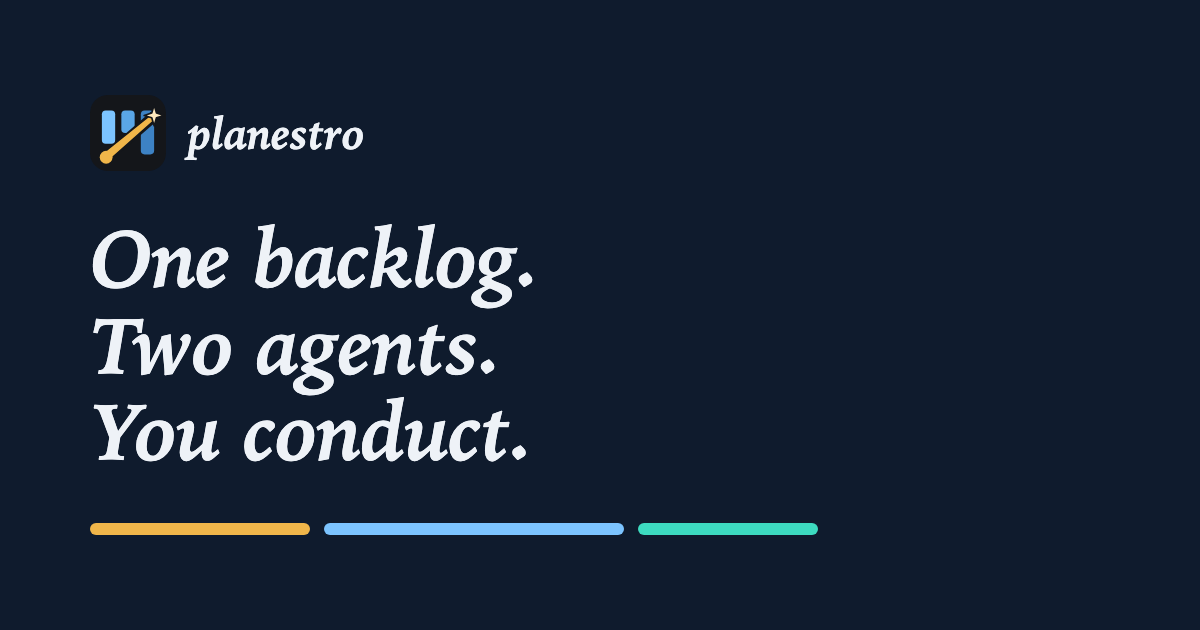
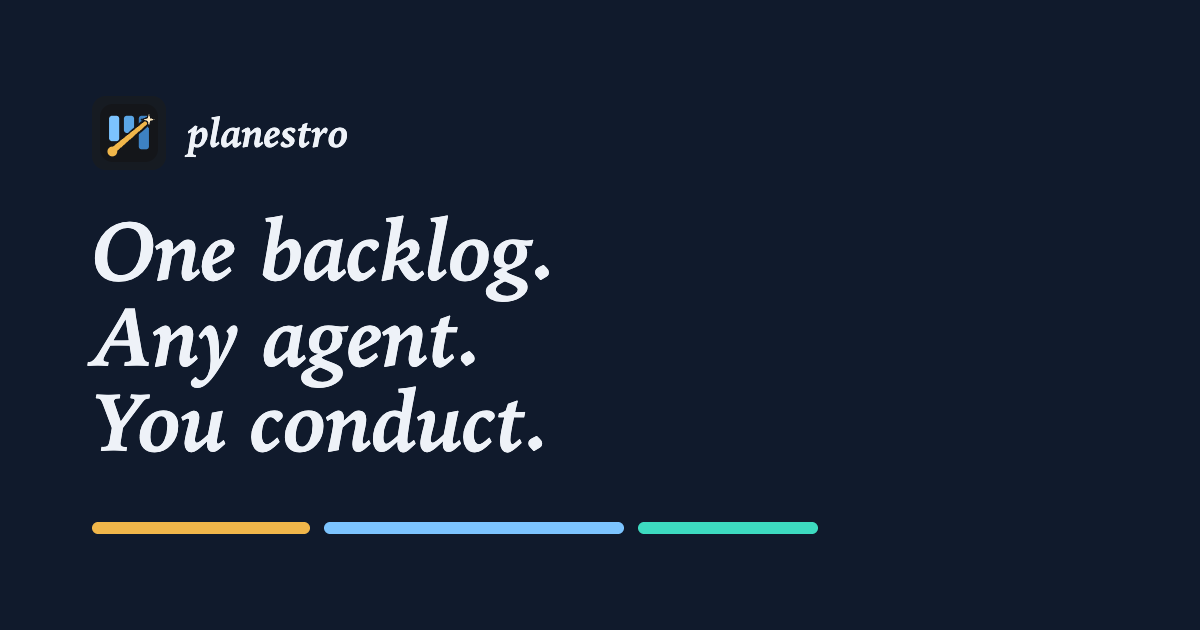
Site: one backlog, any agent — the score plays one ordinary item
The site follows the README: "One backlog. Any agent. You conduct." for a web
app, an API, anything with CI. The hero score now plays one ordinary item
instead of the art epic: you write it, Claude plans, you approve, Codex
implements, CI comes back red and goes to Codex in the same conversation, CI
goes green, it merges. You play two notes. A Releases section is new, the
two-agent section is "One feature, split across agents" with the game as its
proof, and the trust rules say what Codex's no-network sandbox means.

New captures from the current UI (built at /tmp/demo so no home directory
shows): the item waiting on plan approval, which also replaces the stale
README lead image, and a release page. The share card is re-rendered with the
new headline.

Changed region(s): [[0.0617, 0.4825, 0.4625, 0.754], [0.0617, 0.3317, 0.4625, 0.5127], [0.0617, 0.1508, 0.3083, 0.2714]]

diff --git a/site/index.html b/site/index.html
@@ -3,10 +3,10 @@
 <head>
   <meta charset="utf-8">
   <meta name="viewport" content="width=device-width, initial-scale=1">
-  <title>planestro — one backlog, two agents, you conduct</title>
-  <meta name="description" content="A local tool that turns a markdown backlog into reviewed pull requests. Claude Code plans and writes the code, the Codex CLI draws the art, deterministic code does the git, CI and merging — and it stops whenever a decision is yours.">
+  <title>planestro — one backlog, any agent, you conduct</title>
+  <meta name="description" content="A local tool that turns a markdown backlog into merged pull requests, for a web app, an API or anything with CI. Claude Code plans each item, Claude Code or the Codex CLI implements it, deterministic code does the git, CI and merging — and it stops whenever a decision is yours.">
   <meta property="og:title" content="planestro">
-  <meta property="og:description" content="One backlog, two agents, you conduct. Claude Code writes the code, Codex draws the art, and nothing merges without passing CI and, where it matters, your eye.">
+  <meta property="og:description" content="One backlog, any agent, you conduct. Claude Code plans, Claude Code or Codex implements, and nothing merges without a plan you approved and green CI.">
   <meta property="og:image" content="og.png">
   <meta name="theme-color" content="#0f1b2d">
   <link rel="icon" type="image/svg+xml" href="favicon.svg">
@@ -16,7 +16,7 @@
 <header class="top">
   <a class="brand" href="#top"><img src="favicon.svg" alt="" width="28" height="28">planestro</a>
   <nav aria-label="Site">
-    <a href="#two-agents">Two agents</a>
+    <a href="#releases">Releases</a>
     <a href="#trust">Why trust it</a>
     <a href="#start">Try it</a>
     <a href="https://github.com/gravesisme/planestro/blob/main/docs/README.md">Manual</a>
@@ -26,14 +26,14 @@
 
 <main id="top">
   <section class="hero">
-    <h1><span>One backlog.</span> <span>Two agents.</span> <span>You conduct.</span></h1>
-    <p class="lede">planestro is a local tool that turns a markdown backlog into reviewed pull requests. Claude Code plans and writes the code, the Codex CLI draws the art, and plain deterministic code does the git, the CI waits and the merging. Whenever a decision is yours, it stops and asks — and picks the same conversation back up when you answer.</p>
+    <h1><span>One backlog.</span> <span>Any agent.</span> <span>You conduct.</span></h1>
+    <p class="lede">planestro is a local tool that turns a markdown backlog into merged pull requests — for a web app, an API, anything that lives in a git repository with CI. Claude Code plans each item, Claude Code or the Codex CLI implements it, and plain deterministic code does the git, the CI waits, the rebases and the merging. Whenever a decision is yours, it stops and asks — and picks the same conversation back up when you answer.</p>
 
     <figure class="score" aria-labelledby="score-caption">
-      <!-- One feature that needs pictures and code, as a score: who plays in which bar, and where it waits for you. -->
-      <svg viewBox="0 0 1200 430" role="img" aria-label="A score with four staves: you, Claude, Codex, and git and CI. You write the epic; Claude proposes the children; you approve; Codex draws two pieces of art in parallel while git and CI open and check their pull requests; you review the art; Claude builds the code that uses it; the epic merges.">
+      <!-- One ordinary item as a score: who plays in which bar, and the only two bars that are yours. -->
+      <svg viewBox="0 0 1200 430" role="img" aria-label="A score with four staves: you, Claude, Codex, and git and CI. You write an item; git makes its worktree and branch; Claude explores and writes the plan; you approve it; Codex does the work; git and CI push, open the pull request and run CI, which comes back red; Codex fixes it in the same conversation; CI goes green and the item merges.">
         <g class="bars">
-          <text x="170" y="26">write the epic</text><text x="318" y="26">plan the breakdown</text><text x="466" y="26">approve</text><text x="614" y="26">draw</text><text x="762" y="26">review by eye</text><text x="910" y="26">build</text><text x="1058" y="26">land</text>
+          <text x="170" y="26">write an item</text><text x="318" y="26">plan</text><text x="466" y="26">approve</text><text x="614" y="26">implement</text><text x="762" y="26">pull request</text><text x="910" y="26">red CI</text><text x="1058" y="26">land</text>
           <path d="M160 40V400M308 40V400M456 40V400M604 40V400M752 40V400M900 40V400M1048 40V400M1190 40V400"/>
         </g>
         <g class="staves">
@@ -43,39 +43,40 @@
           <g transform="translate(0,322)"><path d="M160 0H1190M160 14H1190M160 28H1190M160 42H1190M160 56H1190"/><text x="146" y="35" class="voice machine-t">git and CI</text></g>
         </g>
         <g class="notes">
-          <g class="note you" style="--at:0"><rect x="166" y="68" width="136" height="36" rx="8"/><text x="234" y="91">one epic, in markdown</text></g>
-          <g class="note claude" style="--at:1"><rect x="314" y="156" width="136" height="36" rx="8"/><text x="382" y="179">proposes the children</text></g>
-          <g class="note machine" style="--at:1.4"><rect x="378" y="339" width="66" height="22" rx="6"/><text x="411" y="354">checks it</text></g>
-          <g class="note you" style="--at:2"><rect x="462" y="68" width="136" height="36" rx="8"/><text x="530" y="91">edit and approve</text></g>
-          <g class="note codex" style="--at:3"><rect x="610" y="238" width="136" height="22" rx="6"/><text x="678" y="253">icon.png</text></g>
-          <g class="note codex" style="--at:3.15"><rect x="610" y="266" width="136" height="22" rx="6"/><text x="678" y="281">header.png</text></g>
-          <g class="note machine" style="--at:3.6"><rect x="690" y="339" width="110" height="22" rx="6"/><text x="745" y="354">PR, sync, CI</text></g>
-          <g class="note you" style="--at:4"><rect x="758" y="68" width="136" height="36" rx="8"/><text x="826" y="91">send back, approve</text></g>
-          <g class="note codex" style="--at:4.3"><rect x="808" y="252" width="80" height="22" rx="6"/><text x="848" y="267">revises</text></g>
-          <g class="note claude" style="--at:5"><rect x="906" y="156" width="136" height="36" rx="8"/><text x="974" y="179">code that uses the art</text></g>
-          <g class="note machine" style="--at:5.6"><rect x="986" y="339" width="110" height="22" rx="6"/><text x="1041" y="354">PR, sync, CI</text></g>
-          <g class="note machine" style="--at:6.2"><rect x="1104" y="332" width="78" height="36" rx="8"/><text x="1143" y="355">one merge</text></g>
+          <g class="note you" style="--at:0"><rect x="166" y="68" width="136" height="36" rx="8"/><text x="234" y="91">a markdown file</text></g>
+          <g class="note machine" style="--at:0.5"><rect x="174" y="339" width="120" height="22" rx="6"/><text x="234" y="354">worktree, branch</text></g>
+          <g class="note claude" style="--at:1"><rect x="314" y="156" width="136" height="36" rx="8"/><text x="382" y="179">explores, plans</text></g>
+          <g class="note you" style="--at:2"><rect x="462" y="68" width="136" height="36" rx="8"/><text x="530" y="91">read and approve</text></g>
+          <g class="note codex" style="--at:3"><rect x="610" y="244" width="136" height="36" rx="8"/><text x="678" y="267">does the work</text></g>
+          <g class="note machine" style="--at:4"><rect x="766" y="339" width="120" height="22" rx="6"/><text x="826" y="354">push, PR, sync, CI</text></g>
+          <g class="note machine" style="--at:4.6"><rect x="906" y="339" width="60" height="22" rx="6"/><text x="936" y="354">red</text></g>
+          <g class="note codex" style="--at:5"><rect x="906" y="244" width="136" height="36" rx="8"/><text x="974" y="267">fixes it</text></g>
+          <g class="note machine" style="--at:5.6"><rect x="976" y="339" width="112" height="22" rx="6"/><text x="1032" y="354">sync, CI green</text></g>
+          <g class="note machine" style="--at:6.2"><rect x="1100" y="332" width="84" height="36" rx="8"/><text x="1142" y="355">merged</text></g>
         </g>
         <path class="playhead" d="M0 40V400"/>
       </svg>
-      <figcaption id="score-caption">One feature that needs pictures and code. The code does not start until the art has merged; nothing merges until CI is green; art does not merge until you have looked at it.</figcaption>
+      <figcaption id="score-caption">One item, markdown to merged. Claude plans it; this one is implemented by Codex, but either can be, chosen per item. You play two notes. The red CI run goes back to the agent that wrote the code, in the same conversation, and nothing merges until CI is green.</figcaption>
     </figure>
   </section>
 
   <section class="band" id="what">
     <div class="prose">
       <h2>Your backlog is a folder of markdown</h2>
-      <p>One file per item: a description, notes, the plan, and a log of everything that happened to it. Queue an item and planestro makes a worktree and a branch, has Claude explore and write a plan, and waits for you to approve it. Then the work is done in that worktree, pushed, opened as a pull request, kept in sync with its base, checked by CI, merged, and cleaned up.</p>
+      <p>One file per item: a description, notes, the plan, and a log of everything that happened to it. Queue an item and planestro makes a worktree and a branch, has Claude explore and write a plan, and waits for you to approve it. Then Claude or Codex does the work in that worktree, and it is pushed, opened as a pull request, kept in sync with its base, checked by CI, merged, and cleaned up.</p>
+      <p>Queue several and they run side by side, each in its own worktree. A merge queue brings each branch up to date with the base and waits for green CI, so they land one after another on a base that stays green.</p>
       <p>The agent never pushes, merges or deletes anything. Code does that, and only with proof: a worktree is removed after a fresh fetch shows its commits on the base branch, and not before.</p>
     </div>
-    <img class="shot" src="img/board.png" width="1760" height="780" loading="lazy" alt="The planestro board. Two art items are in review with thumbnails of what was drawn; two code items are queued, each marked as waiting on the art; their epic shows zero of four children merged.">
+    <img class="shot" src="img/item.png" width="3000" height="1520" loading="lazy" alt="A bug fix waiting on plan approval: its description and notes, with Approve and implement, and a box to say what should change.">
   </section>
 
-  <section class="band" id="two-agents">
+  <section class="band" id="split">
     <div class="prose">
-      <h2>Two agents, one feature</h2>
-      <p>Some features need pictures and code. Write one epic. The planner proposes the child items, sends the raster art to a Codex model and the code to a Claude model, and makes the code wait for the art. A program checks the list before you see it, so an unknown model or a dependency loop goes back to the planner, not to you. Then you edit it and approve.</p>
+      <h2>One feature, split across agents</h2>
+      <p>Each model you configure carries a line saying what it is for. Write one epic, and the planner proposes the child items, routes each to the model that fits, and says which waits on which. A program checks the list before you see it, so an unknown model or a dependency loop goes back to the planner, not to you. Then you edit it and approve, and the children ship together as one pull request.</p>
+      <p>It was built for pictures and code: a game on the App Store, <a href="https://hurricaneharrison.com">Hurricane Harrison</a>, is made with it every day. The raster art goes to a Codex model that can generate images, and the code that uses the art goes to Claude and waits for it.</p>
     </div>
+    <img class="shot" src="img/board.png" width="1760" height="780" loading="lazy" alt="The planestro board. Two art items are in review with thumbnails of what was drawn; two code items are queued, each marked as waiting on the art; their epic shows zero of four children merged.">
     <img class="shot" src="img/breakdown.png" width="1500" height="1010" loading="lazy" alt="A proposed breakdown: an icon and an illustration routed to Codex Art with nothing to wait on, an implementation and a docs item routed to a Claude model that wait on the art.">
     <div class="pair">
       <div class="prose">
@@ -92,6 +93,14 @@
     </figure>
   </section>
 
+  <section class="band" id="releases">
+    <div class="prose">
+      <h2>Releases, next to the backlog</h2>
+      <p>What shipped lives beside what was planned: one file per version with its release notes, its store copy and the items that went out in it. Sections are yours to define, each with a store's character limit if it has one, and the copy that rarely changes carries forward to the next release. The page offers the work that landed since the last release; you decide what goes in.</p>
+    </div>
+    <img class="shot" src="img/releases.png" width="2800" height="2058" loading="lazy" alt="A planned release, 0.4.0: two backlog items in it, two more that landed since the last release offered with an add button, and sections for release notes, a tagline counted against a 60-character limit, and notes.">
+  </section>
+
   <section class="band" id="trust">
     <div class="prose">
       <h2>Why you can leave it running</h2>
@@ -102,7 +111,7 @@
       <div><dt>A state machine, not a model, knows the state</dt><dd>Git, worktrees, pull requests, CI polling, merging and cleanup are code. The models plan, implement and make judgment calls. They never poll.</dd></div>
       <div><dt>Nothing waits on you</dt><dd>A plan to approve, a question, a permission, a picture to look at: the request is saved, the agent's process exits, and your answer resumes the same conversation, after an hour or after a restart.</dd></div>
       <div><dt>Deleting needs evidence</dt><dd>No worktree or branch is removed because state says it should be safe. It takes a fresh fetch and a proof that the commits are on the base. Anything ambiguous blocks with a reason.</dd></div>
-      <div><dt>Two agents, two kinds of trust, stated plainly</dt><dd>A Claude worker asks before anything unusual, one command at a time. A Codex worker cannot ask, so it runs in a sandbox that cannot write outside its worktree or reach the network. Neither can push.</dd></div>
+      <div><dt>Two agents, two kinds of trust, stated plainly</dt><dd>A Claude worker asks before anything unusual, one command at a time. A Codex worker cannot ask, so it runs in a sandbox that cannot write outside its worktree or reach the network; a task that needs a download stops and says so. Neither can push.</dd></div>
       <div><dt>Dry-run, and one big lever</dt><dd>Dry-run logs every command a live engine would run, against fakes. Pause automation lets running work finish and starts nothing new, across restarts.</dd></div>
     </dl>
   </section>
@@ -119,7 +128,8 @@ npm run sample</code></pre>
     <ol class="steps">
       <li>Drag a card to Queued. A plan appears and the card turns red: it needs you.</li>
       <li>Open it, read the plan, approve. Watch it reach Done. The Console shows every command a live engine would have run.</li>
-      <li>Open the Tide chart view epic and choose Plan the breakdown. Approve the children, approve the art, and watch the code start only then.</li>
+      <li>Open Releases: 0.4.0 is being put together, with two finished items still to place.</li>
+      <li>For one feature split across two agents, open the Tide chart view epic and choose Plan the breakdown. Approve the children, approve the art, and watch the code start only then.</li>
     </ol>
     <p class="links"><a href="https://github.com/gravesisme/planestro/blob/main/docs/getting-started.md">Getting started</a><a href="https://github.com/gravesisme/planestro/blob/main/docs/mixed-agent-epics.md">The mixed-agent walkthrough</a><a href="https://github.com/gravesisme/planestro/blob/main/docs/architecture.md">Architecture</a><a href="https://github.com/gravesisme/planestro">Source on GitHub</a></p>
   </section>

diff --git a/docs/going-public.md b/docs/going-public.md
@@ -129,14 +129,17 @@ Making the repo public publishes every commit, not just `main`'s tip.
 
 ## Portfolio / interview material
 
-- [ ] **Retake the screenshots.** `docs/img/item.png`, now the README's lead image,
-      predates the Releases tab and the id-before-title header, and shows the
-      stub dry-run plan. Retake it (and `board.png`) after the canned,
-      item-aware dry-run plans exist.
+- [x] `item.png` (README lead image and site) retaken on 2026-09-22 from the current
+      UI, cropped above the stub dry-run plan; `site/img/releases.png` added.
+- [ ] `board.png`, `breakdown.png` and `review.png` predate the Releases tab and
+      the id-before-title header. Retake them after the canned, item-aware
+      dry-run plans exist.
 - [x] **README leads with the pipeline, not the art** (2026-09-22): the audience
       is web and API developers. Codex is a peer implementer; art-plus-code
       features are one section, with Hurricane Harrison as the proof. The site
-      (`site/index.html`) still leads with the art story.
+      followed: "One backlog. Any agent. You conduct.", the score shows one
+      ordinary item (Claude plans, Codex implements and fixes a red CI run),
+      a Releases section, and a new share card.
 
 - [ ] A two-minute screen recording of the sample: queue → plan → approve →
       PR → CI red → fixed → merged → done (`PLANESTRO_DRYRUN_CI=red-once`

diff --git a/site/README.md b/site/README.md
@@ -4,10 +4,13 @@ A static page: `index.html`, `styles.css`, images. No build step, no JavaScript,
 other host (fonts are system stacks). Open `index.html` in a browser to review it.
 
 - The hero is an inline SVG score; its one animation respects `prefers-reduced-motion`.
-- Screenshots in `img/` are copies of `docs/img/` (taken from `npm run sample`);
+- Screenshots in `img/` are taken from `npm run sample`, built at `/tmp/demo/sample` so no home
+  directory shows. `item.png` (also the README's lead image) and `releases.png` are 2× captures
+  of the current UI; the rest are copies of `docs/img/`.
   `codex-header.jpg` and `codex-icon.png` were drawn by the Codex CLI during the live
   acceptance run (`npm run spike:codex-live -- epic`).
-- `og.png` is the 1200×630 share card.
+- `og.png` is the 1200×630 share card: the logo, the three-line headline and the three voice
+  colours, rendered from HTML in the site's own fonts.
 - `packages/server/test/site.test.ts` fails if the page references another host or a local
   file that does not exist.
 
